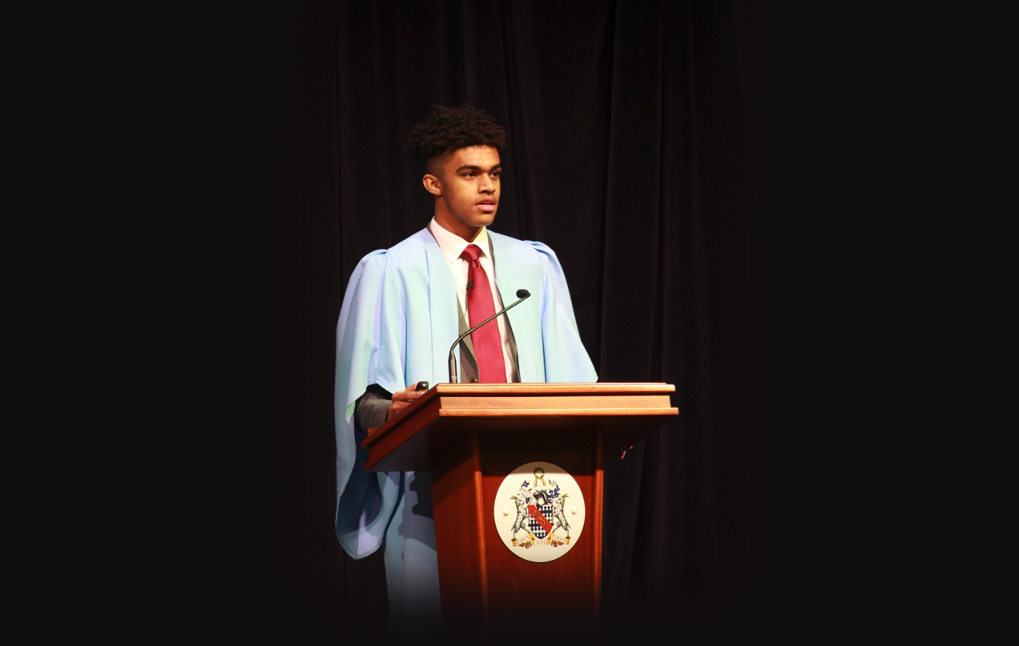
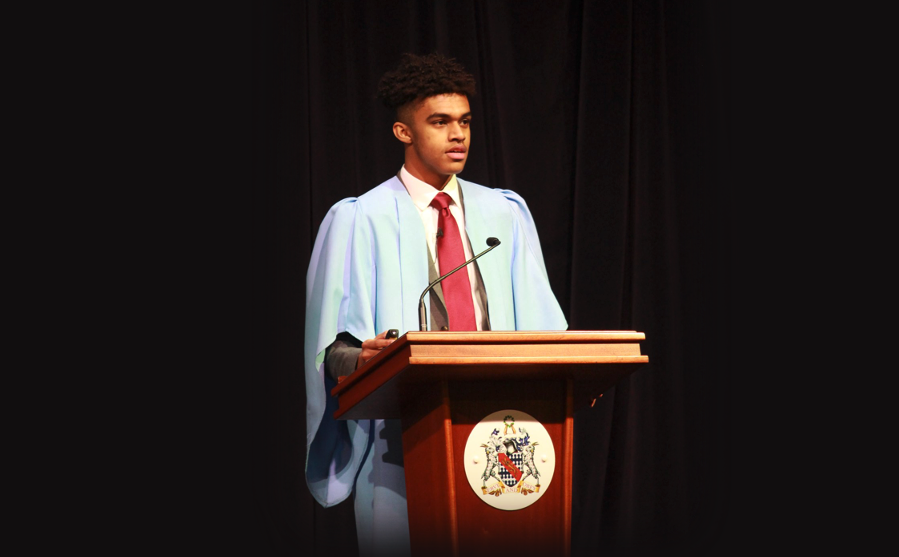
images

Changed region(s): [[0.3115, 0.0916, 0.7164, 1.0]]

diff --git a/assets/css/custom.css b/assets/css/custom.css
@@ -51,7 +51,7 @@ a {
 }
 
 .img-responsive {
-  width: 50%;
+  width: 70%;
   display: block;
   margin-left: auto;
   margin-right: auto;

diff --git a/_posts/2019-01-25-higgs-hunter-aske-project.md b/_posts/2019-01-25-higgs-hunter-aske-project.md
@@ -4,7 +4,9 @@ title: Oxford Physics Research Competition & Haberdasher's Aske Project - First 
 category: physics
 ---
 
-At age 16, I completed a 6-month independent research project into the potential existence of an undiscovered fundamental particle. This work, in conjunction with Oxford University and CERN, was completed alongside my A-level studies. Through rigorous analysis and finding substantial evidence for its existence, my research was awarded a Distinction, selected as a winner of the “Higgs Hunters” 2019 Oxford Physics Research Competition and also won First Prize for the annual Haberdashers’ Aske’s Research Project Competition, selected as 1st from over 150 entries. 
+At age 16, I completed a 6-month independent research project into the potential existence of an undiscovered fundamental particle. This work, in conjunction with Oxford University and CERN, was completed alongside my A-level studies. 
+
+Through rigorous analysis and finding substantial evidence for its existence, my research was awarded a Distinction, selected as a winner of the *Oxford Physics “Higgs Hunters” 2019 Research Competition* and also won First Prize for the annual *Haberdashers’ Aske’s Research Project Competition*, selected as 1st from over 150 entries. 
 
 <!-- more -->
 
@@ -16,11 +18,27 @@ My speech at the annual <em>Aske Project Celebration Assembly</em>:
 
 Before presenting my project at the celebration assembly, I sat a viva examination with an external Physics professor to discuss the scope of my project. Below are his comments:
 
-![Viva Comments](/assets/images/viva-comments.png)
+![Viva Comments](/assets/images/aske-viva-comments.png){:class="img-responsive"}
+
+Final report on my project:
+
+![Viva Comments](/assets/images/aske-distinction.jpg){:class="img-responsive"}
 
 This research was an extension of my submission for the Oxford Physics 'Higgs Hunters' competition. As a result of being selected as a winner, I was honoured to be invited to present my findings over a two day conference at Oxford. Here is a video of the event:
 
 {% include youtubePlayer.html id="E7JP_P9-jX0" %}
+
+Photos of both events:
+
+![Viva Comments](/assets/images/aske-project1.jpg){:class="img-responsive"}
+
+![Viva Comments](/assets/images/aske-project3){:class="img-responsive"}
+
+![Viva Comments](/assets/images/aske-project2.jpg){:class="img-responsive"}
+
+![Viva Comments](/assets/images/higgs-hunter1){:class="img-responsive"}
+
+![Viva Comments](/assets/images/higgs-hunter2){:class="img-responsive"}
 
 
 

diff --git a/_posts/2018-12-23-why-physics.md b/_posts/2018-12-23-why-physics.md
@@ -14,8 +14,8 @@ Gargantua (Black Hole) – Interstellar
 
 I believe the meaning of life is to find our why we have been placed here. We all too often find ourselves consumed by daily trivialities, we must focus on bigger questions. As Stephen Hawking once said:
 
-Look up at the stars, not down at your feet
-Stephen Hawking
+>> Look up at the stars, not down at your feet
+>> *Stephen Hawking*
 
 I am currently a Physics Undergraduate at the University of Oxford, with a deep interest in the subtleties physics shares with other aspects of life. Whether that be the quantum physics that powers all modern technology (e.g. the laptop I am typing this on), Quantitative Finance, Artificial Intelligence, Space Travel and much more.
 

diff --git a/_posts/2020-11-10-tuesdays-with-morrie.md b/_posts/2020-11-10-tuesdays-with-morrie.md
@@ -4,6 +4,8 @@ title: Tuesdays with Morrie
 category: book-reviews
 ---
 
+![Cover](/assets/images/tuesdays-cover.jpg){:class="img-responsive"}
+
 “Tuesdays with Morrie” is a short book describing how Mitch Albom’s relationship with Morris Schwartz develops during his final 6 months battling the AlS disease. We are taken on a journey with these two characters as Morrie suffers through ALS aged 78, causing him to reflect on his life and the meaning of death, whilst imparting wisdom and advice to his younger friend Mitch.
 
 <!-- more -->

diff --git a/_posts/2020-11-17-silence-in-the-age-of-noise.md b/_posts/2020-11-17-silence-in-the-age-of-noise.md
@@ -4,6 +4,8 @@ title: Silence In The Age of Noise
 category: book-reviews
 ---
 
+![Cover](/assets/images/silence-cover.jpg){:class="img-responsive"}
+
 This book describes to us the importance of silence in our daily lives. Kagge, A previous Cambridge Philosophy student turned explorer, speaks of his 50 day expedition across Antarctica… with a broken radio. He envelops us in the silence he experienced, and uses this as a powerful tool to convince us of the benefits it can have in each of our lives.
 
 <!-- more -->

diff --git a/_posts/2020-07-16-digital-minimalism.md b/_posts/2020-07-16-digital-minimalism.md
@@ -3,3 +3,5 @@ layout: post
 title: Digital Minimalism
 category: book-reviews
 ---
+
+![Cover](/assets/images/digital-minimalism-cover.jpg){:class="img-responsive"}

diff --git a/_posts/2021-03-11-physics-presentations.md b/_posts/2021-03-11-physics-presentations.md
@@ -1,6 +1,6 @@
 ---
 layout: post
-title: 'Interstellar' and The Information Paradox
+title: "Interstellar" and The Information Paradox
 category: physics
 ---
 

diff --git a/_posts/2020-08-05-cant-hurt-me.md b/_posts/2020-08-05-cant-hurt-me.md
@@ -2,5 +2,6 @@
 layout: post
 title: Can't Hurt Me
 category: book-reviews
-
 ---
+
+![Cover](/assets/images/cant-hurt-me-cover.jpg){:class="img-responsive"}

diff --git a/_posts/2020-08-12-rich-dad-poor-dad.md b/_posts/2020-08-12-rich-dad-poor-dad.md
@@ -3,3 +3,5 @@ layout: post
 title: Rich Dad Poor Dad
 category: book-reviews
 ---
+
+![Cover](/assets/images/rich-dad-cover.jpg){:class="img-responsive"}

diff --git a/_posts/2020-07-29-as-a-man-thinketh.md b/_posts/2020-07-29-as-a-man-thinketh.md
@@ -2,5 +2,6 @@
 layout: post
 title: As A Man Thinketh
 category: book-reviews
-
 ---
+
+![Cover](/assets/images/as-a-man.jpg){:class="img-responsive"}
